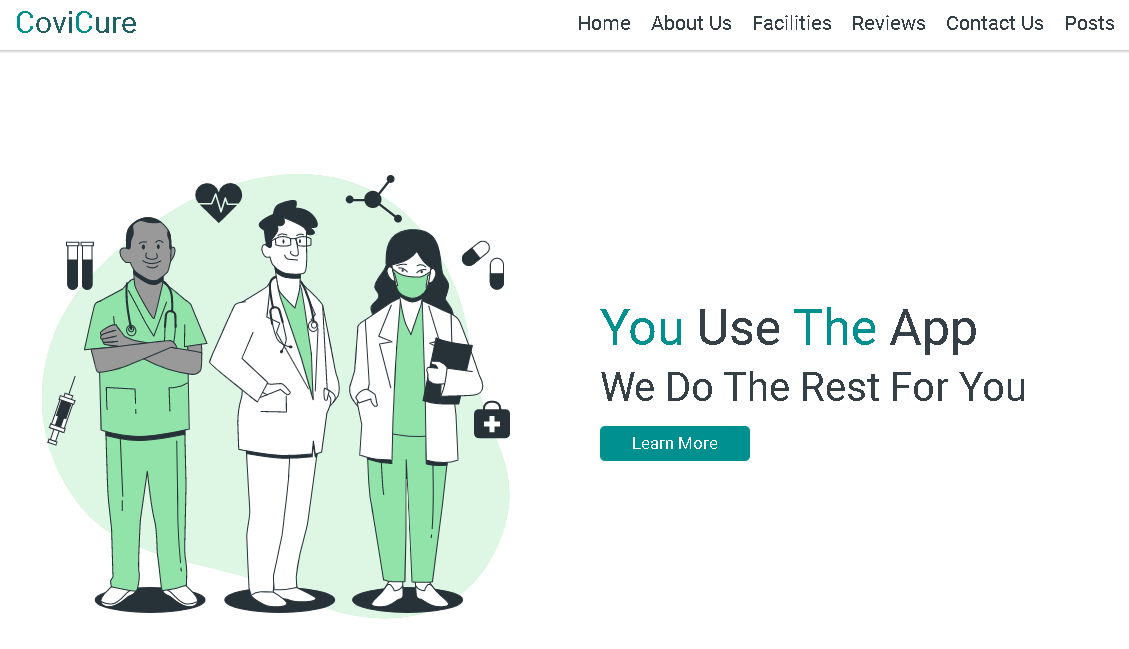
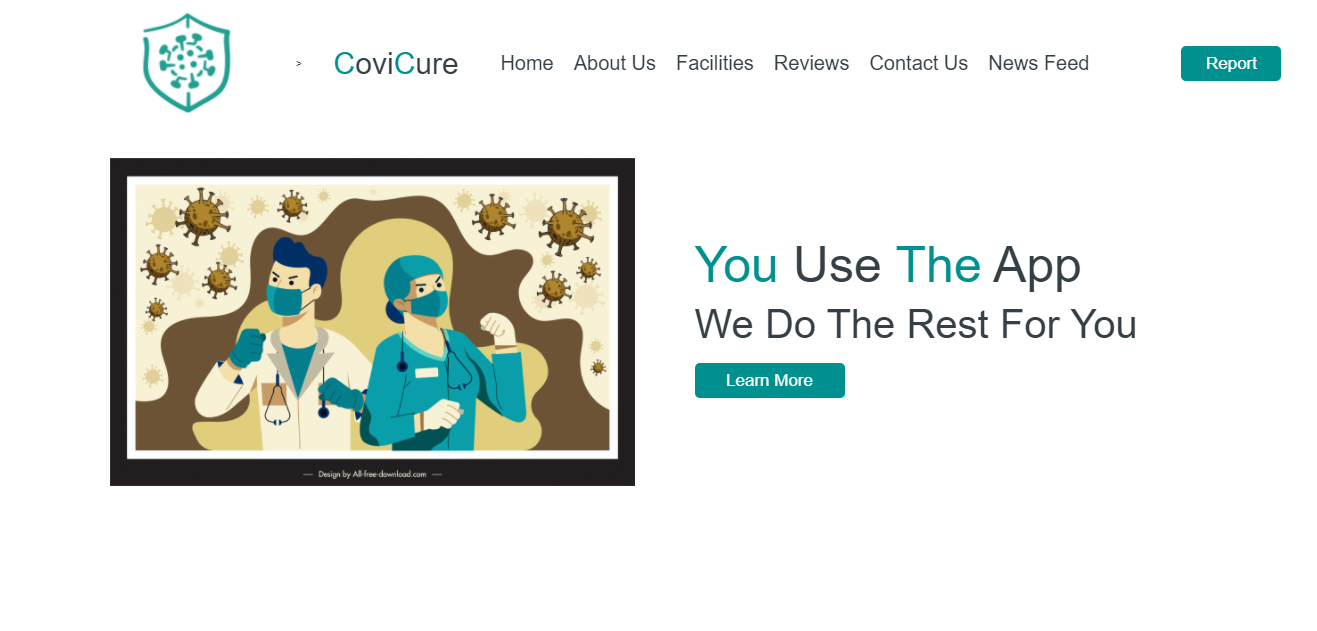
Covicure Social

diff --git a/HackerEarth_hackCOVID_2.0-master/covi-cure_main-website/index.html b/HackerEarth_hackCOVID_2.0-master/covi-cure_main-website/index.html
@@ -4,7 +4,7 @@
 <head>
     <meta charset="UTF-8">
     <meta name="viewport" content="width=device-width, initial-scale=1.0">
-    <title>CoviCure Complete Responsive Hospital Website Prototype Design</title>
+    <title>CoviCure </title>
 
     <!-- aos css file cdn link  -->
     <link rel="stylesheet" href="https://cdnjs.cloudflare.com/ajax/libs/aos/2.3.4/aos.css">
@@ -31,7 +31,7 @@
     <header>
 
         <div class="container">
-            <div class="covicure-logo"></div><img class="covicure-logo" src="CoviCure Logo.png"><img>>
+            <div class="covicure-logo"></div><img class="covicure-logo" src="CoviCure Logo.png"><img>
             <a href="#" class="logo"><span>C</span>ovi<span>C</span>ure</a>
 
 
@@ -43,7 +43,7 @@
                     <li><a href="#review">Reviews</a></li>
                     <li><a href="#contact">Contact Us</a></li>
                     <li><a href="#post">News Feed</a></li>
-                    <li><button class="button1">Report</a></li>
+                    <li><button class="button1">Sign-In</a></li>
         </ul>
     </nav>
 
@@ -98,8 +98,8 @@
                         </div>
 
                         <div class="box size1">
-                            <h3 class="size"> <i class="fas fa-procedures"></i> Patient & Doctor Appointment Service </h3>
-                            <p>Professional and Affordable.</p>
+                            <h3 class="size">  </h3>
+                            <p></p>
                         </div>
 
                         <div class="box size1">
@@ -315,6 +315,7 @@
             </div>
 
         </section>
+        
 
         <!-- contact section ends -->
 
@@ -375,6 +376,7 @@
         <!-- footer section starts  -->
 
         <section class="footer">
+            <button class="button2">REPORT</button>
 
             <div class="container">
 
@@ -407,7 +409,7 @@
 
             </div>
 
-            <h1 class="credit text-center mx-auto">Created By <span>TRIJAL BHARDWAJ & SHIVAM SINGH</span> | All Rights Reserved.</h1>
+            <h1 class="credit text-center mx-auto">Created By <span>TEAM COVICURE</span> | All Rights Reserved.</h1>
 
         </section>
 

diff --git a/HackerEarth_hackCOVID_2.0-master/covi-cure_main-website/Sign-Up.css b/HackerEarth_hackCOVID_2.0-master/covi-cure_main-website/Sign-Up.css
@@ -1,4 +1,4 @@
-@import url('https://fonts.googleapis.com/css2?family=Roboto:ital,wght@0,100;0,300;0,400;1,100;1,300&display=swap'); :root {
+:root {
     --blue: #009090;
     --black: #354046;
 }
@@ -31,7 +31,7 @@ body {
 }
 
 section {
-    overflow: hidden;
+    /* overflow: hidden; */
 }
 
 .button {
@@ -46,7 +46,7 @@ section {
     position: relative;
     z-index: 0;
     overflow: hidden;
-    margin: 5rem 0;
+    margin: 2rem 0;
 }
 
 .button::before {
@@ -72,8 +72,8 @@ section {
 .heading {
     text-align: center;
     font-size: 4rem;
-    padding: 0;
-    padding-top: 3rem;
+    margin-top: 11px;
+    padding-top: 0rem;
     color: var(--black);
 }
 
@@ -310,7 +310,7 @@ header .fa-bars {
 
 .contact form {
     text-align: center;
-    margin: 50px;
+    margin: 30px;
 }
 
 .contact form .inputBox {
@@ -392,6 +392,11 @@ header .fa-bars {
 
 .footer {
     background: var(--black);
+    display: flex;
+    justify-content: space-evenly;
+    width: 526px;
+    position: absolute;
+    left: 174px;
 }
 
 .footer p {
@@ -509,13 +514,31 @@ header .fa-times {
 
 .report {
     position: absolute;
-    top: 12vh;
+    top: 8vh;
     left: 19vw;
-    height: 75vh;
+    height: 101vh;
     width: 60vw;
 }
 
 .button-body {
-    height: 100vh;
+    height: 120vh;
     background-color: black;
+}
+
+#whatsapp {
+    /* position: relative; */
+    height: 50px;
+    width: 50px;
+    /* left: 15vw; */
+    /* bottom: 20px; */
+    margin: 1rem 0;
+}
+
+#telegram {
+    /* position: absolute; */
+    height: 50px;
+    width: 50px;
+    /* bottom: 20px; */
+    margin: 1rem 0;
+    /* right: 15vw; */
 }

diff --git a/HackerEarth_hackCOVID_2.0-master/covi-cure_main-website/Sign-Up.html b/HackerEarth_hackCOVID_2.0-master/covi-cure_main-website/Sign-Up.html
@@ -4,7 +4,7 @@
     <meta charset="UTF-8">
     <meta http-equiv="X-UA-Compatible" content="IE=edge">
     <meta name="viewport" content="width=device-width, initial-scale=1.0">
-    <title>REPORT</title>
+    <title>Sign-IN</title>
     <link rel="stylesheet" href="Sign-Up.css">
 </head>
 <body>
@@ -43,10 +43,17 @@
                         </div>
     
                         <textarea name="" id="" cols="30" rows="10" placeholder="Message ( Optional )"></textarea>
-    
+                         <div class="footer">
+                            <a href="https://chat.whatsapp.com/EiV0qs9oiLz8CHblUfIG9l">
+                                <img id="whatsapp" src="whatsapp.png">
+                                <img>
+                            </a>
+
                         <input type="submit" name="" id="" value="SIGN UP" class="button">
-    
+                        <a href="https://t.me/covicure"><img id="telegram" src="telegram.png"><img></a>
+                        </div>
                     </form>
+            
     
                 </div>
     
@@ -55,6 +62,7 @@
         </div>
     
     </section>
-    
+
+    <script src="SignUp.js" defer></script>
 </body>
 </html>

diff --git a/HackerEarth_hackCOVID_2.0-master/covi-cure_main-website/style.css b/HackerEarth_hackCOVID_2.0-master/covi-cure_main-website/style.css
@@ -1,4 +1,4 @@
-@import url('https://fonts.googleapis.com/css2?family=Roboto:ital,wght@0,100;0,300;0,400;1,100;1,300&display=swap'); :root {
+ :root {
   --blue: #009090;
   --black: #354046;
 }
@@ -64,6 +64,22 @@ section {
   overflow: hidden;
   margin: 1rem 0;
   left: 72px;
+}
+.button2 {
+  height: 4.5rem;
+  width: 16rem;
+  background: var(--blue);
+  color: #fff;
+  font-size: 1.7rem;
+  text-transform: capitalize;
+  border-radius: .5rem;
+  cursor: pointer;
+  position: relative;
+  z-index: 0;
+  overflow: hidden;
+  margin: 1rem 0;
+  left: 44vw;
+  margin: 19px;
 }
 
 .button::before {
@@ -193,7 +209,7 @@ header .fa-bars {
 }
 
 .about .content .box p {
-  font-size: 1.7rem;
+  font-size: 2.2rem;
   padding-left: 6rem;
   color: #666;
 }
@@ -227,7 +243,7 @@ header .fa-bars {
 }
 
 .review {
-  background: url(../images/review-bg.jpg), linear-gradient(var(--black),var(--black)) no-repeat;
+  background: var(--black);
   background-size: cover;
   background-position: center;
   background-blend-mode: multiply;
@@ -235,6 +251,9 @@ header .fa-bars {
 
 .review .heading {
   color: #fff;
+}
+.footer{
+  
 }
 
 .review .box-container {

diff --git a/HackerEarth_hackCOVID_2.0-master/covi-cure_main-website/main.js b/HackerEarth_hackCOVID_2.0-master/covi-cure_main-website/main.js
@@ -13,10 +13,20 @@ let size3 = document.getElementsByClassName("size")[2]
     location.href = "https://60df10a4c5f3c1dcbcb16a8a--covicure-chat-application.netlify.app/";
 })
 
-let button = document.getElementsByClassName("button1")[0]
+let button = document.getElementsByClassName("button2")[0]
  button.addEventListener("click", ()=>{
     location.href="./report.html";
 })
+let button3 = document.getElementsByClassName("button1")[0]
+ button3.addEventListener("click", ()=>{
+    location.href="./Sign-Up.html";
+})
+// let button2 = document.getElementsByClassName("button2")
+//  button.addEventListener("click", ()=>{
+//    console.log("click");
+//     location.href="./report.html";
+// })
+
 
 
 $(document).ready(function(){

diff --git a/HackerEarth_hackCOVID_2.0-master/covi-cure_main-website/SignUp.js b/HackerEarth_hackCOVID_2.0-master/covi-cure_main-website/SignUp.js
@@ -1,0 +1,12 @@
+
+window.onload=function(){
+    // -- put your code here
+    let whatsapp = document.getElementById("whatsapp")[0]
+ whatsapp.addEventListener("click", ()=>{
+    location.href="./report.html";
+})
+  }
+// let telegram = document.getElementById("telegram")[0]
+//  telegram.addEventListener("click", ()=>{
+//     location.href="./report.html";
+// })
